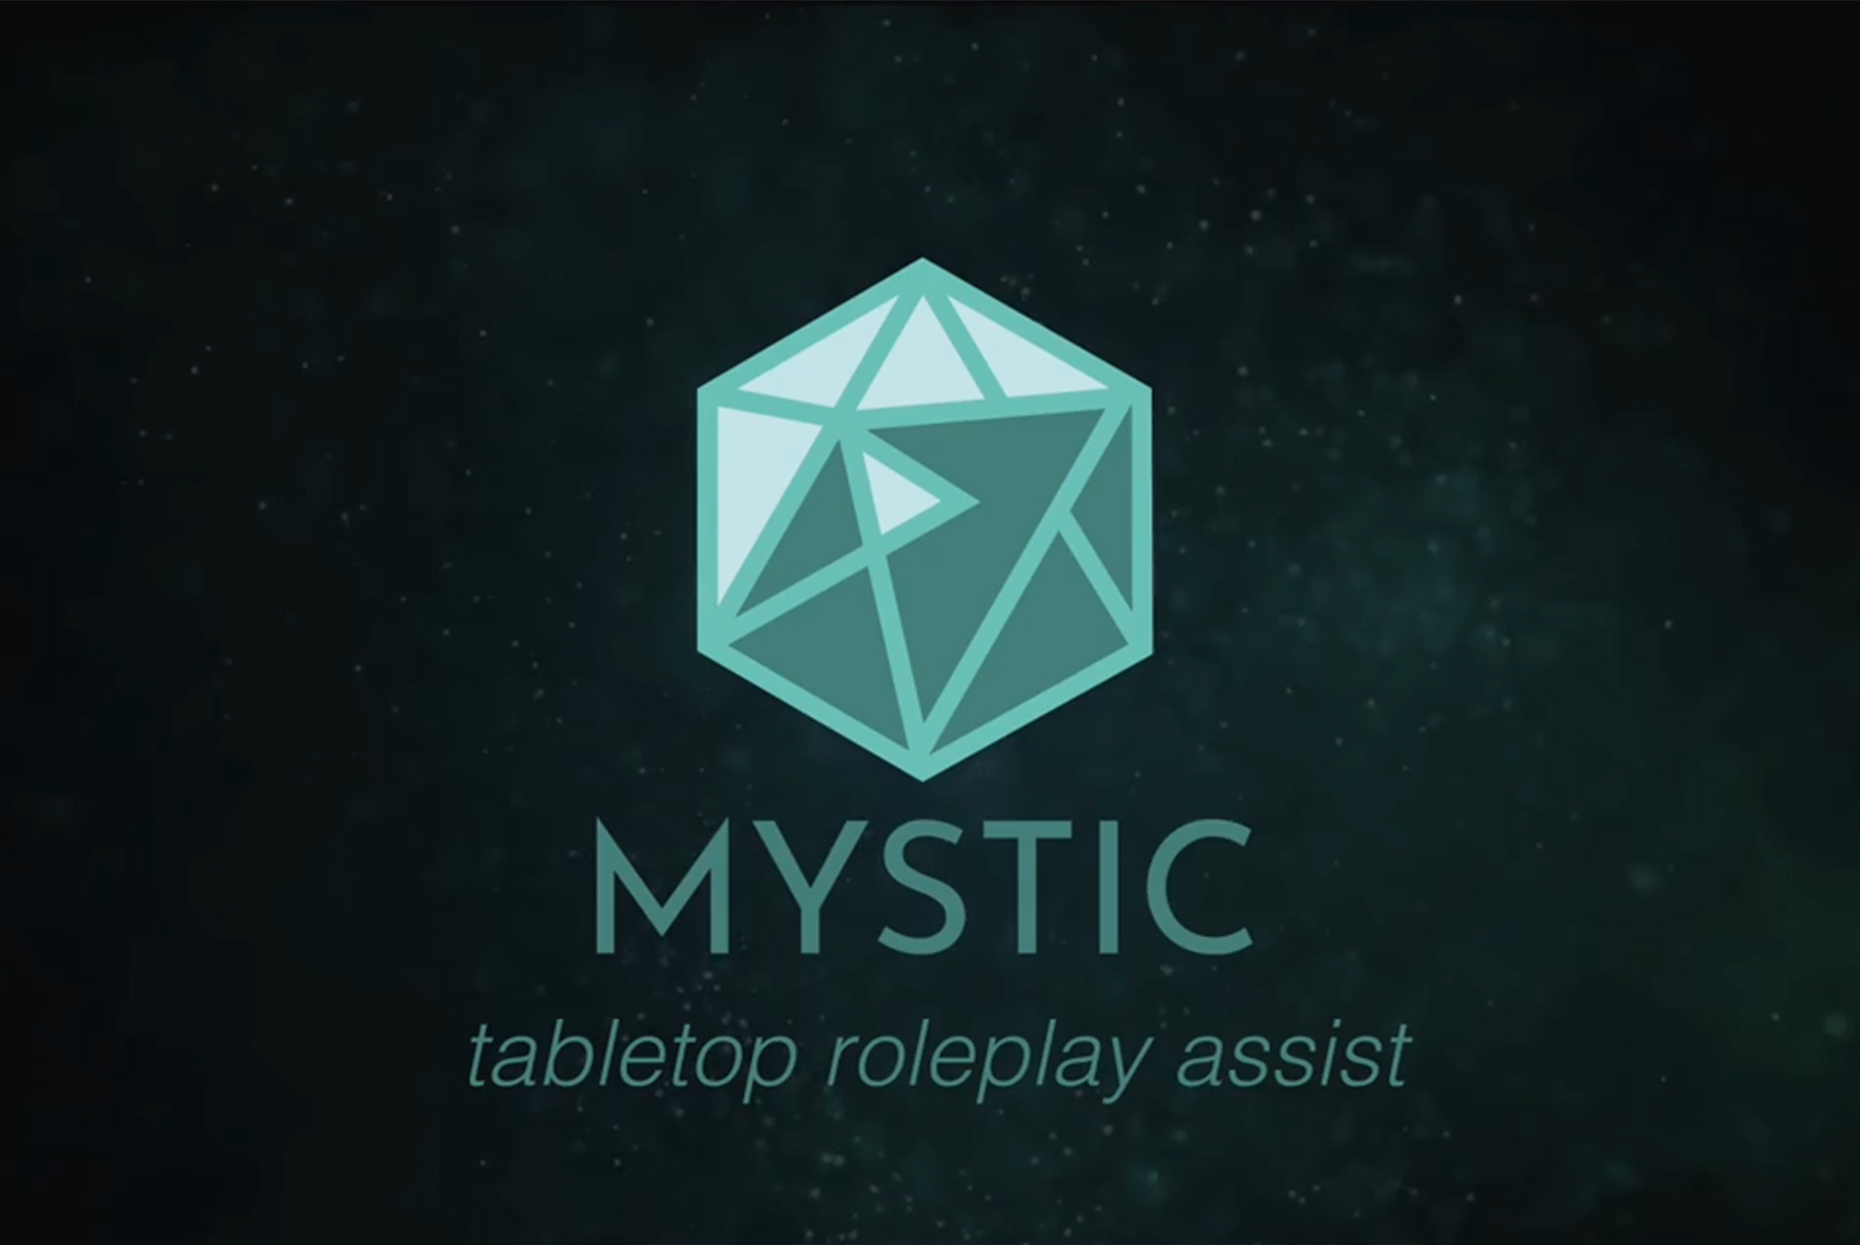
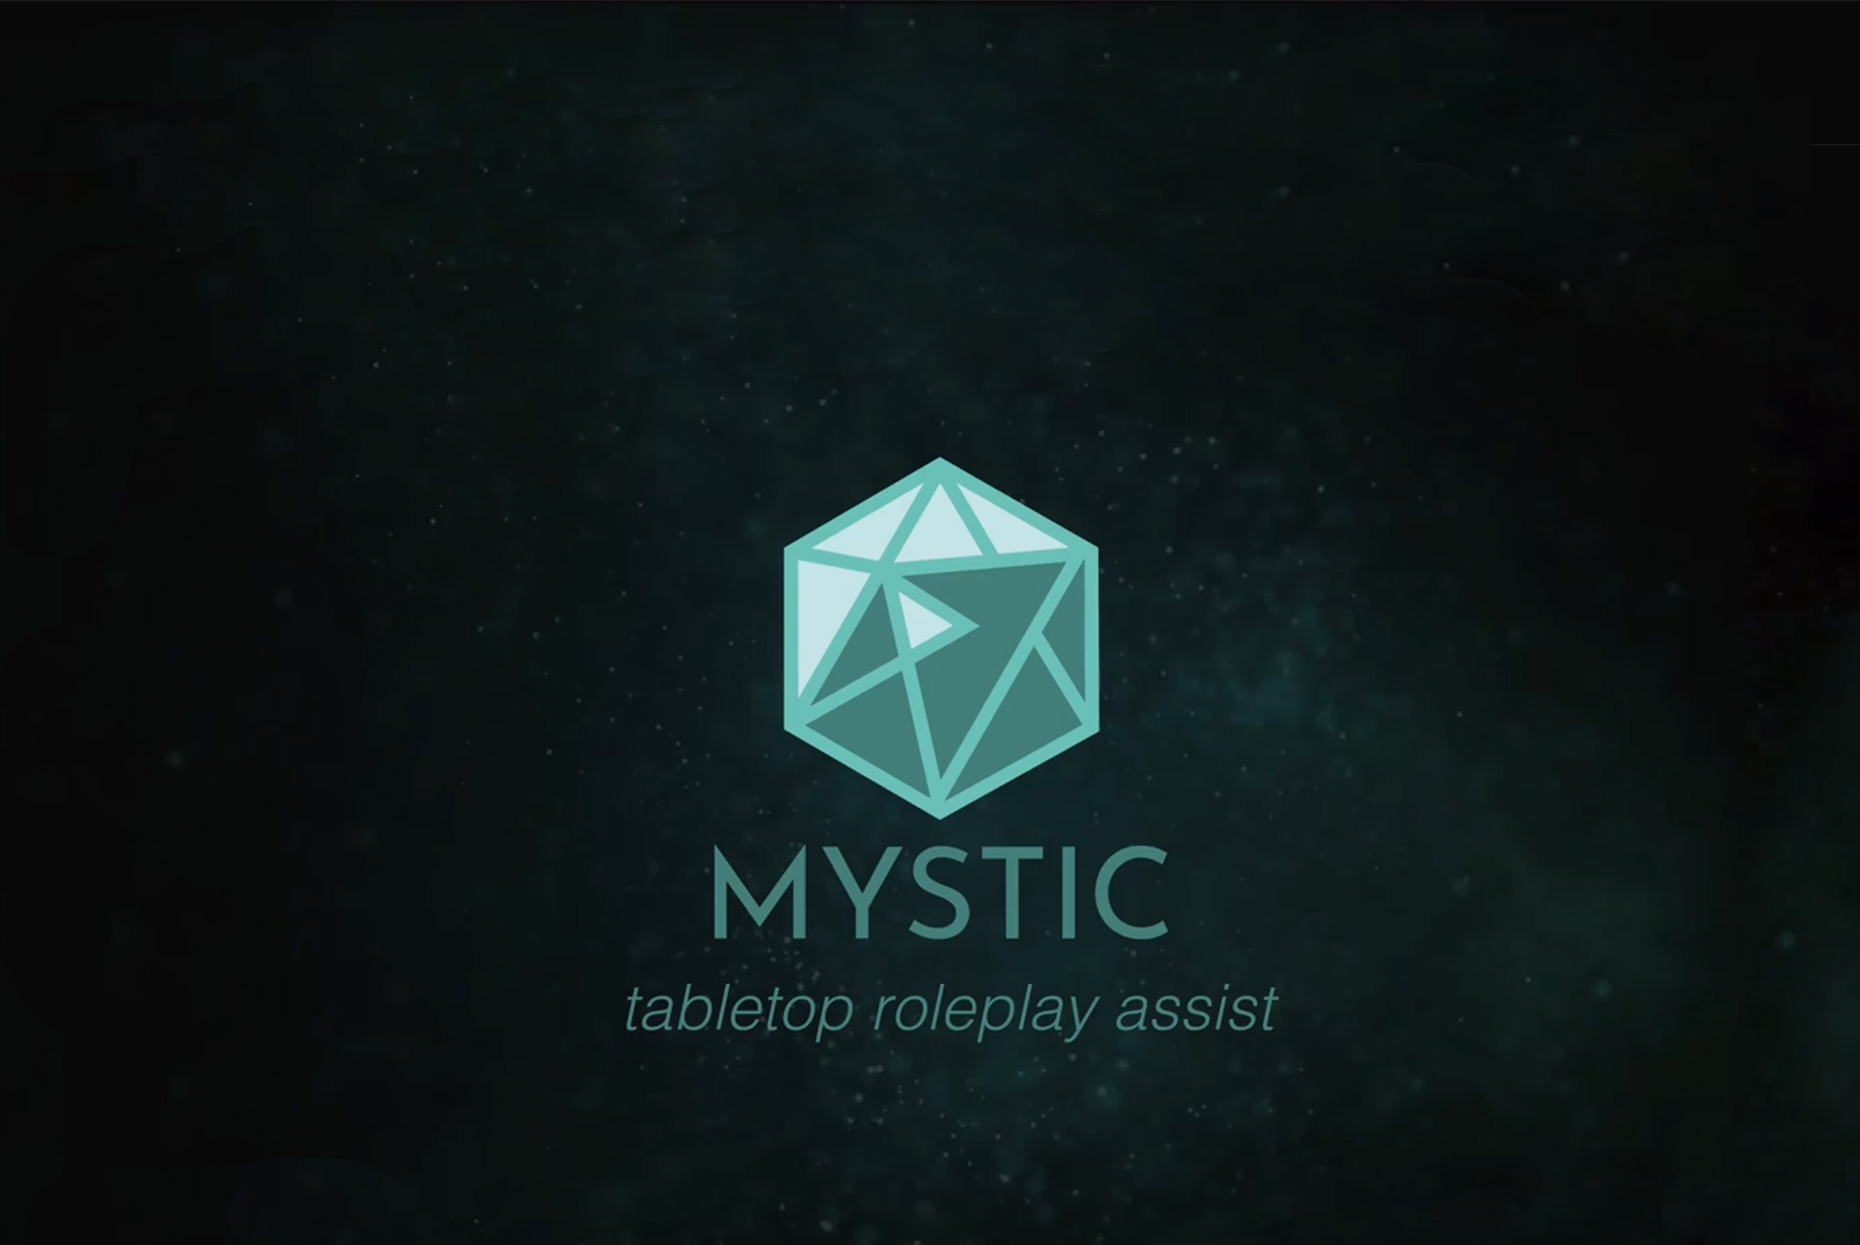
fghfhjg

Changed region(s): [[0.3118, 0.2137, 0.686, 0.7631], [0.2495, 0.7936, 0.7796, 0.8851], [0.7172, 0.3663, 0.8419, 0.5189]]

diff --git a/mystic.html b/mystic.html
@@ -48,11 +48,7 @@
       </div>
     </header>
     <section class="ae-container-fluid ae-container-fluid--full">
-      <header class="rk-portfolio-cover  mystic">
-        <div class="item-inside__meta">
-          <h1 class="ae-u-bolder rk-portfolio-title ">Mystic</h1>
-          <p class="ae-theta rk-portfolio-category ">TableTop Assist Application</p>
-        </div>
+      <header class="rk-portfolio-cover  mysticb">
       </header>
       <div class="ae-container-fluid">
         <div class="ae-grid ae-grid--collapse rk-portfolio-info ">
